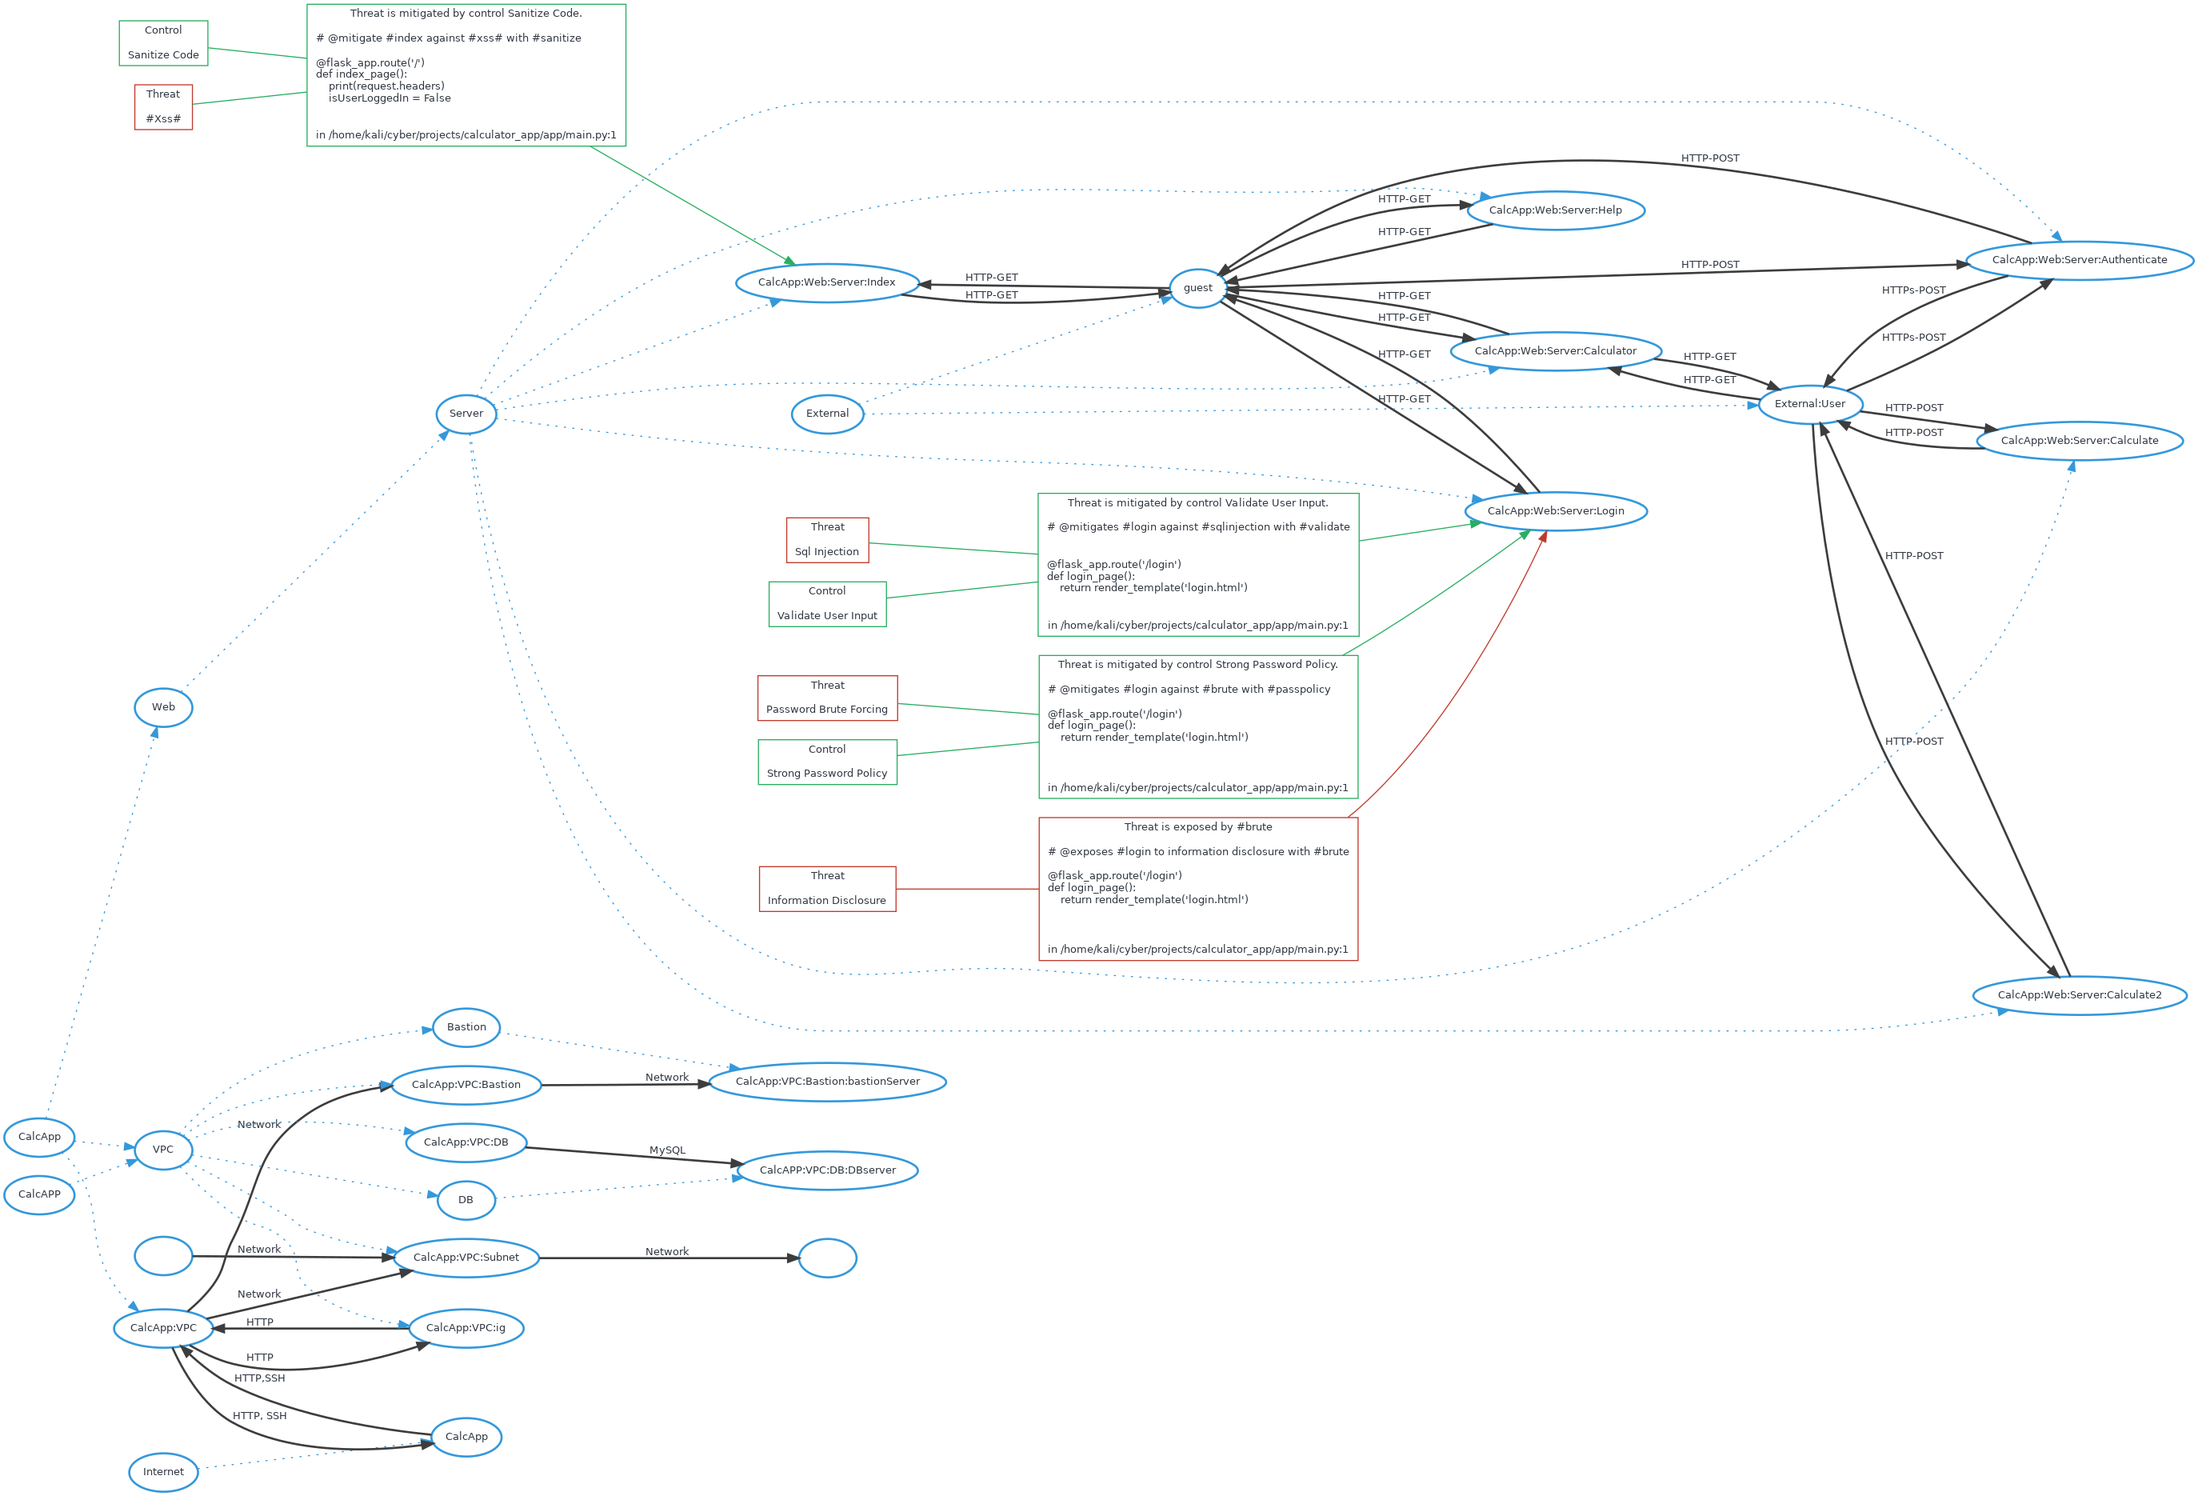
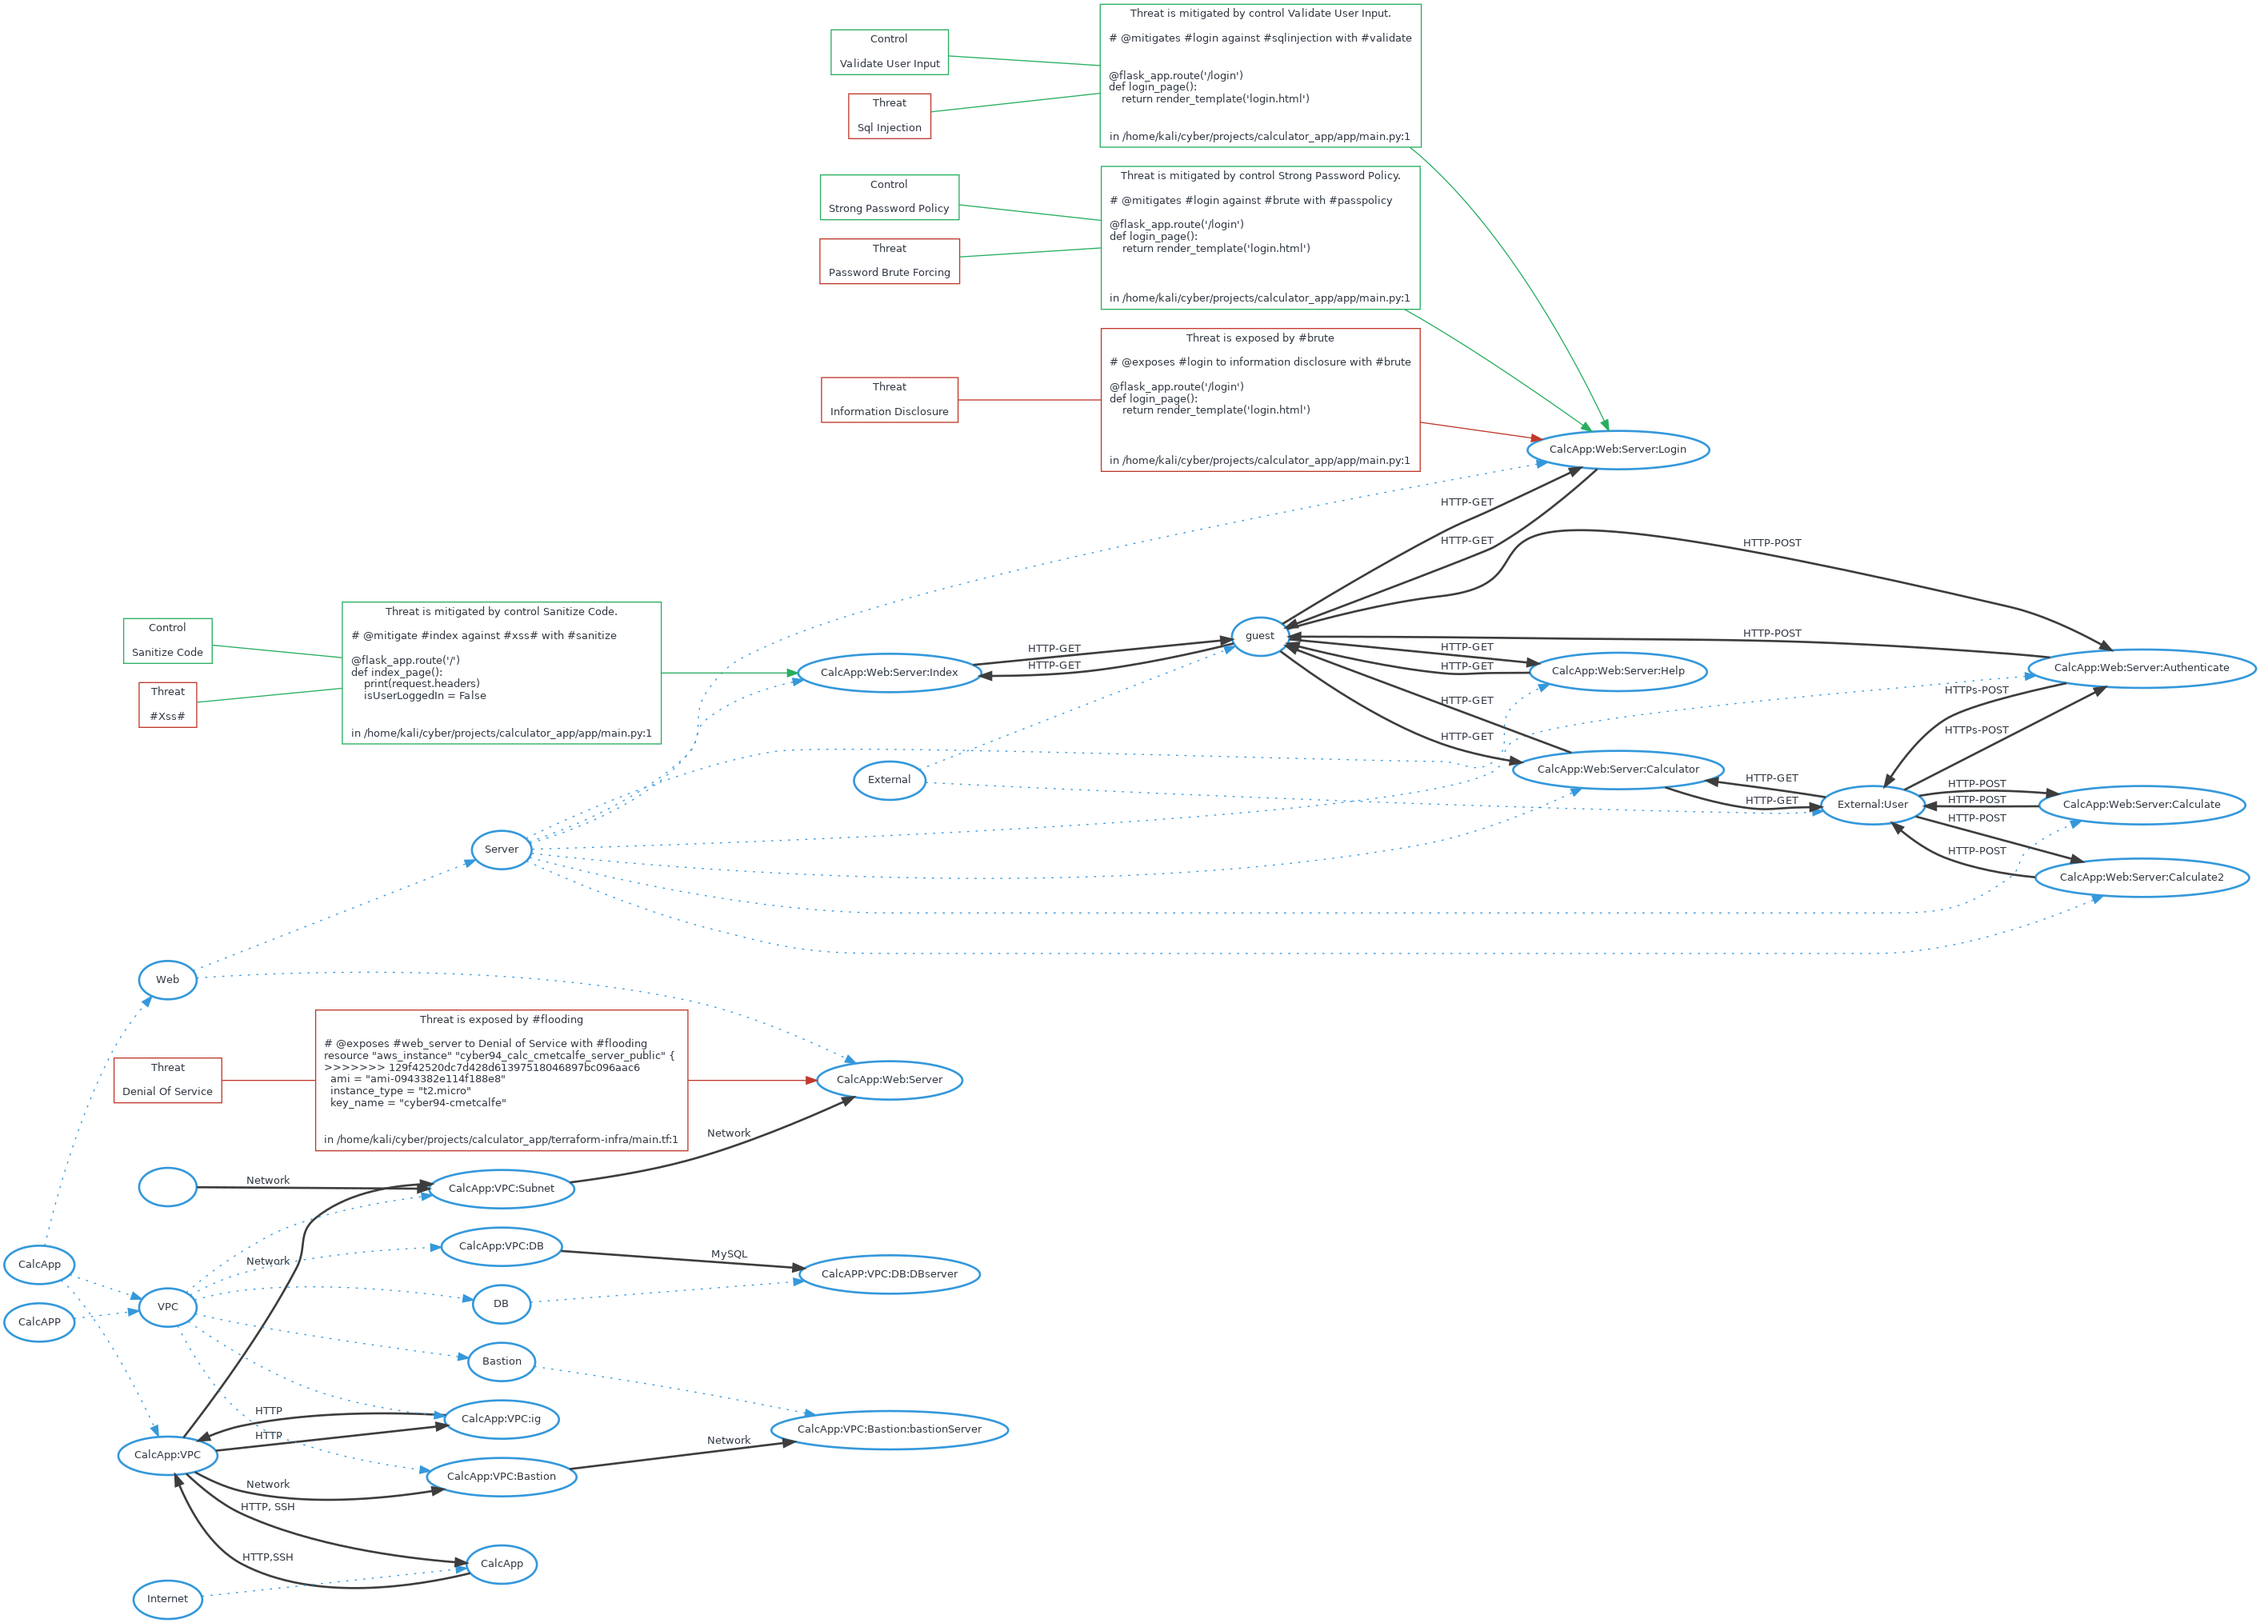
add threats to threat model

diff --git a/ThreatModel.md b/ThreatModel.md
@@ -24,6 +24,20 @@ def login_page():
 ```
 /home/kali/cyber/projects/calculator_app/app/main.py:1
 
+## Denial of service against CalcApp:Web:Server
+#flooding
+
+```
+# @exposes #web_server to Denial of Service with #flooding
+resource "aws_instance" "cyber94_calc_cmetcalfe_server_public" {
+>>>>>>> 129f42520dc7d428d61397518046897bc096aac6
+  ami = "ami-0943382e114f188e8"
+  instance_type = "t2.micro"
+  key_name = "cyber94-cmetcalfe"
+
+```
+/home/kali/cyber/projects/calculator_app/terraform-infra/main.tf:1
+
 
 # Acceptances
 
@@ -394,25 +408,25 @@ Network
 
 ```
 # @connects #vpc to #subnet with Network
+
 resource "aws_subnet" "cyber94_calc_cmetcalfe_subnet_public_tf" {
   vpc_id = aws_vpc.cyber94_calc_cmetcalfe_vpc_tf.id
   cidr_block = "10.104.1.0/24"
 
-  tags = {
 
 ```
 /home/kali/cyber/projects/calculator_app/terraform-infra/main.tf:1
 
-## CalcApp:VPC:Subnet To 
+## CalcApp:VPC:Subnet To CalcApp:Web:Server
 Network
 
 ```
 # @connects #subnet to #web_server with Network
+
 resource "aws_instance" "cyber94_calc_cmetcalfe_server_public" {
 >>>>>>> 129f42520dc7d428d61397518046897bc096aac6
   ami = "ami-0943382e114f188e8"
   instance_type = "t2.micro"
-  key_name = "cyber94-cmetcalfe"
 
 ```
 /home/kali/cyber/projects/calculator_app/terraform-infra/main.tf:1
@@ -422,11 +436,11 @@ Network
 
 ```
 # @connects #webserver to #subnet with Network
+
 resource "aws_instance" "cyber94_calc_cmetcalfe_server_public" {
 >>>>>>> 129f42520dc7d428d61397518046897bc096aac6
   ami = "ami-0943382e114f188e8"
   instance_type = "t2.micro"
-  key_name = "cyber94-cmetcalfe"
 
 ```
 /home/kali/cyber/projects/calculator_app/terraform-infra/main.tf:1
@@ -480,6 +494,8 @@ resource "aws_instance" "cyber94_calc_cmetcalfe_server_db" {
 
 ## CalcApp:Web:Server:Login
 
+## CalcApp:Web:Server
+
 ## guest
 
 ## CalcApp:Web:Server:Help
@@ -504,8 +520,6 @@ resource "aws_instance" "cyber94_calc_cmetcalfe_server_db" {
 
 ## 
 
-## 
-
 ## CalcApp:VPC:Bastion
 
 ## CalcApp:VPC:Bastion:bastionServer
@@ -527,6 +541,9 @@ resource "aws_instance" "cyber94_calc_cmetcalfe_server_db" {
 
 
 ## Information disclosure
+
+
+## Denial of service
 
 
 
